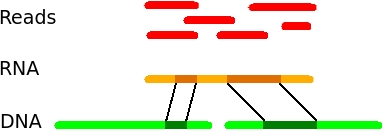
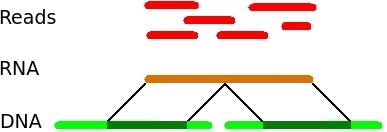
finished slides 2

diff --git a/doc/slides.tex b/doc/slides.tex
@@ -59,18 +59,18 @@
         его участкам (ридам).
     \item
         К сожалению, собрать геном полностью не получается. Вместо этого
-        ассемблер выдаёт несколько достаточно больших его частей.
+        ассемблер выдаёт несколько достаточно больших его частей (контигов).
     \end{itemize}
 \end{frame}
 
 \begin{frame}[t]{Цель проекта}
     \begin{itemize}
     \item
-        Наша задача "--- установить относительный порядок между этими частями.
+        Наша задача "--- установить относительный порядок между контигами.
     \item
-        А именно, построить ориентированный граф, такой что если данные 
-        указывают, что одна из них идёт перед второй, то между ними проведено
-        ребро.
+        Порядок визуализируется в виде ориентированного
+        графа, в котором вершины "--- контиги, а рёбра "--- вероятные связи
+        между ними.
     \end{itemize}
 
     \cimg{1.jpg}{1}
@@ -85,10 +85,16 @@
     \item
         Выбрать вспомогательную библиотеку биоинформатических алгоритмов.
     \item
-        Реализовать построение графа несколькими разными способами (с помощью 
-        ридов ДНК и РНК).
+        Реализовать построение графа несколькими разными способами:
+        
+        \begin{itemize}
+        \item
+            По ридам ДНК
+        \item
+            По ридам РНК
+        \end{itemize}
     \item
-        Проанализировать и улучшить результат.
+        Проанализировать получившийся результат.
 	\end{enumerate}
 \end{frame}
 
@@ -101,8 +107,8 @@
         Современные технологии позволяют считывать риды парами на небольшом
         расстоянии друг от друга.
     \item
-        Если риды из одной пары попали на разные части, то, вероятно, эти части
-        идут друг за другом.
+        Если риды из одной пары попали на разные контиги, то, вероятно, эти 
+        контиги идут друг за другом.
     \item
         Когда таких признаков становится достаточно много, проводим ребро.
     \end{itemize}
@@ -112,13 +118,13 @@
 \begin{frame}[t]{Фильтрация}
     \begin{itemize}
     \item
-        Проводим ребро, если вес преодолел некоторый порог.
+        Слишком короткие контиги удаляются из графа.
     \item
-        Удаляем слишком короткие части из графа.
+        Пара не учитывается, если расстояние между ридами слишком большое.
     \item
-        Если расстояние между ридами слишком большое, не учитываем эту пару.
+        Ребро проводится, если его вес преодолел некоторый порог.
     \item
-        Построение гистограммы весов для определения порога.
+        Для определения порога строится гистограмма весов.
     \end{itemize}
 \end{frame}
 
@@ -127,24 +133,35 @@
 \begin{frame}[t]{Интроны и экзоны}
     \begin{itemize}
     \item
-        При транскрипции РНК получается из ДНК не полностью, некоторые фрагменты 
-        удаляются.
+        РНК получается из ДНК в результате транскрипции. В процессе сплайсинга
+        в РНК остаются лишь некоторые фрагменты исходной молекулы ДНК.
     \item
-        В итоге рид РНК разбивается в ДНК на несколько разрозненных кусочков.
-    \item
-        С их помощью можно строить граф так же, как с парными ридами.
+        С помощью этой информации также можно строить граф.
     \end{itemize}
     \cimg{3.jpg}{0.75}
+\end{frame}
+
+\begin{frame}[t]{Как проводится ребро}
+    \begin{itemize}
+    \item
+        Если транскрипт выравнивается на два контига, то между ними проводится
+        ребро.
+    \item
+        Но транскрипты, как и геном, неизвестны, поэтому ищем риды РНК,
+        выравнивающиеся на разные контиги.
+    \end{itemize}
+
+    \cimg{4.jpg}{0.6}
 \end{frame}
 
 \begin{frame}[t]{Проблема с частичным выравниванием}
     \begin{itemize}
     \item
-        К сожалению, используемые программы не поддерживают кусочное 
-        выравнивание коротких ридов.
+        Современные программы не поддерживают частичное выравнивание коротких 
+        ридов.
     \item
-        Поэтому было решено сначала собрать эти риды ассемблером, и выравнивать
-        уже длинные части РНК, что уже реализуемо.
+        Поэтому было решено сначала собрать риды ассемблером, и выравнивать
+        уже длинные части РНК.
     \end{itemize}
 
     \cimg{4.jpg}{0.6}
@@ -153,12 +170,14 @@
 \begin{frame}[t]{Фильтрация}
     \begin{itemize}
     \item
-        Опять же можно убирать слишком короткие части из графа.
+        Слишком короткие контиги убираются из графа.
     \item
         Фильтрация по длине выравнивания.
     \item
         Фильтрация по качеству выравнивания.
     \end{itemize}
+
+    \cimg{4.jpg}{0.6}
 \end{frame}
 
 \section{Итоги}
@@ -172,15 +191,17 @@
 \begin{frame}[t]{Чему мы научились}
     \begin{enumerate}
     \item
-        Мы изучили основы биоинформатики.
+        Научились применять различные программы для анализа геномных и
+        транскриптомных данных (bowtie2, STAR, nucmer, SPAdes).
     \item
-        Научились применять различные программы, используемые в этой науке 
-        (bowtie2, STAR, nucmer, SPAdes), на специально выделенном сервере.
+        Освоили библиотеку SeqAn.
     \item
-        Разобрались с sam-форматом для хранения результатов выравнивания и 
+        Обучились SSH для работы на удалённом сервере.
+    \item
+        Разобрались с SAM-форматом для хранения результатов выравнивания и 
         dot-форматом для визуализации графов.
     \item
-        Получили опыт работы в команде.
+        Получили опыт работы в командном научном проекте.
     \end{enumerate}
 \end{frame}
 
@@ -191,7 +212,7 @@
     \item
         Объединение результатов обоих методов построения в один граф.
     \item
-        Автоматизация подборки отсечений.
+        Автоматизация подборки порогов фильтрации.
     \item
         Изучить другие идеи решения поставленной задачи, например, 
         \texttt{l\_rna\_scaffolder}.
